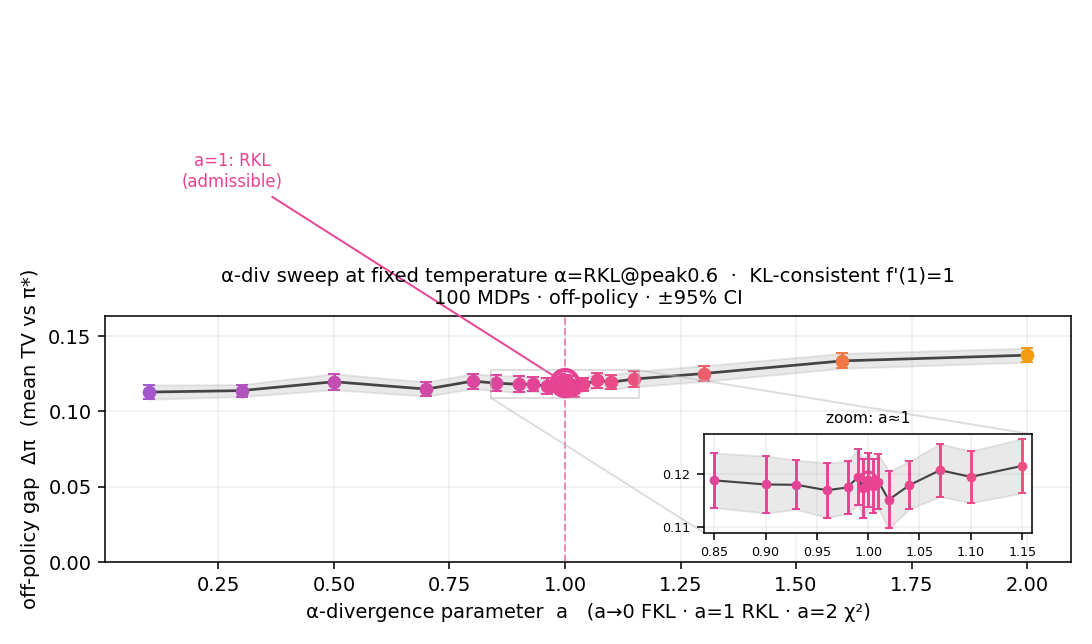
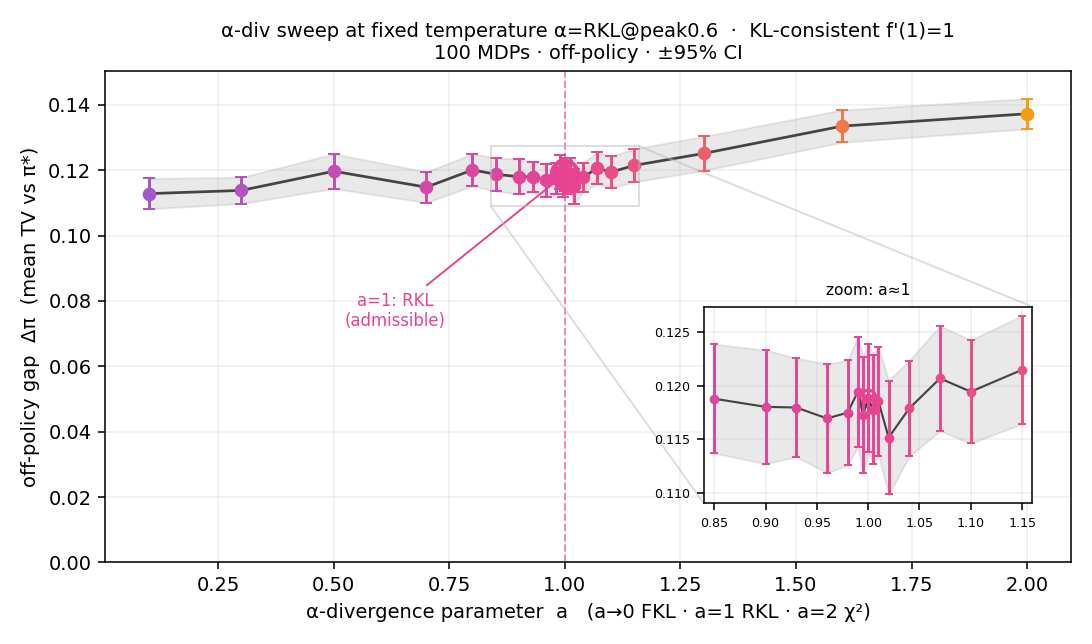
fig_adiv: pin the α-div curve's y-axis (max near a fixed top) + keep the a=1 label inside
The KL-consistent (kln) curves have a small Δπ range (~0.14–0.20); the a=1 annotation
used a data-coord offset (mean+0.13) that floated above the axis, and the 1.15× top
headroom left the max mid-plot. Now the label uses axes-fraction coords (always inside)
and the top is snug (1.06×) so the data max sits at a fixed near-top position. Applies
to both normalizations.

Claude-Session: https://claude.ai/code/session_016MquigKzXLbVvUpRNCwRoU

diff --git a/python/fig_adiv.py b/python/fig_adiv.py
@@ -63,12 +63,15 @@ def fig_curve(man, agg, a_grid):
     ax.scatter([1.0], [agg[1.0]["mean"]], s=180, facecolors="none", edgecolors=COLORS["kl"],
                linewidths=2.2, zorder=5)
     ax.axvline(1.0, color=COLORS["kl"], ls="--", lw=1.0, alpha=0.6)
+    # annotation placed in AXES-fraction coords so it stays inside the plot regardless of the
+    # y-range (the kln case has a small range where a data-coord offset floated off the top).
     ax.annotate("a=1: RKL\n(admissible)", xy=(1.0, agg[1.0]["mean"]),
-                xytext=(0.28, agg[1.0]["mean"] + 0.13), fontsize=8.5, color=COLORS["kl"],
+                xytext=(0.30, 0.48), textcoords="axes fraction", fontsize=8.5, color=COLORS["kl"],
                 ha="center", arrowprops=dict(arrowstyle="->", color=COLORS["kl"], lw=1.0))
     ax.set_xlabel("α-divergence parameter  a   (a→0 FKL · a=1 RKL · a=2 χ²)")
     ax.set_ylabel("off-policy gap  Δπ  (mean TV vs π*)")
-    ax.set_ylim(0, max(mu + ci) * 1.15); ax.grid(alpha=0.2)
+    # snug top so the data max sits at a fixed near-top position (not floating mid-plot)
+    ax.set_ylim(0, max(mu + ci) * 1.06); ax.grid(alpha=0.2)
 
     # zoom inset resolving the well around a=1 (the dense grid lives here)
     m = (A >= 0.84) & (A <= 1.16)
